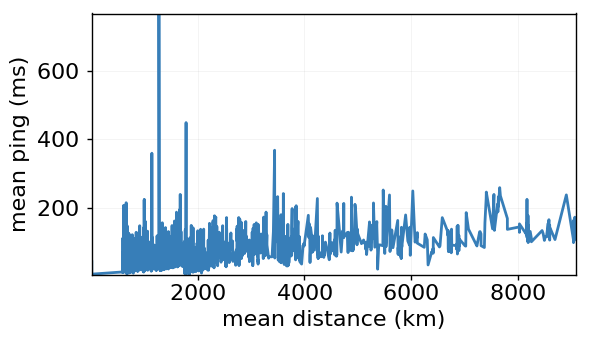
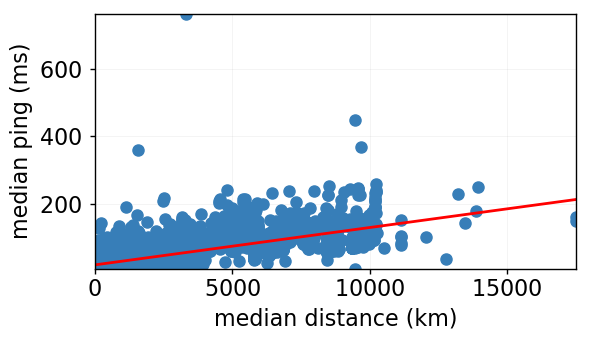
copying to IIJ machine

diff --git a/scripts/clusterAnalysis.py b/scripts/clusterAnalysis.py
@@ -1,4 +1,5 @@
 from skyclusters import SkyClusterBuilder
+from skycompare import NodeComparison
 from experimentdata import ExperimentData, DataGetter
 import scipy.cluster.hierarchy as  hierarchy
 import json
@@ -126,7 +127,18 @@ class ClusterAnalysis(ExperimentData):
                 uniques.append((addr, coverage, answers[site][addr]))
         return uniques
 
-    def merge_answers(self, cluster):
+    def compare_mergeables(self, cluster, mergeables):
+        listpings = self.scb.nodes.to_ping(cluster)
+        pings = defaultdict(lambda: defaultdict(list))
+        for i, client in enumerate(listpings):
+            res = self.scb.nodes[cluster[i]].results
+            for site in client:
+                pings[site][res[site]].append(client[site])
+        comps = dict()
+        for site in mergeables:
+            if site in pings:
+                comps[site] = list()
+    def merge_answers(self, cluster, mergeables):
         '''
         TODO: this should also make a new corresponding pkl
             TODO: if we make a new pkl, will need a simple way to know which pkl to use based on
@@ -183,6 +195,33 @@ class ClusterAnalysis(ExperimentData):
     def get_geo_mean(self, inner):
         mean = np.mean(list(inner.values()))
         return mean
+
+    def get_geo_center(self, inner):
+        mean = np.mean(list(inner.values()))
+        center = sorted(list(inner.keys()), key=lambda z: abs(inner[z]-mean))[0]
+        return self.scb.nodes[center]
+
+    def get_dists_from_geo_center(self, cluster):
+        dists = defaultdict(list)
+        nodes = list()
+        for z in cluster:
+            coords = self.scb.nodes[z].coords
+            if not coords or not coords[0]:
+                continue
+            else:
+                coords = coords[0][1], coords[0][0]
+            nodes.append((z,coords))
+        for (i,a),(j,b) in itertools.combinations(nodes, 2):
+            d = vincenty(a, b).km
+            dists[i].append(d)
+            dists[j].append(d)
+        for i in dists:
+            dists[i] = np.mean(dists[i])
+        mean = np.mean(list(dists.values()))
+        center = sorted(list(dists.keys()), key=lambda z: abs(dists[z]-mean))[0]
+        center_loc = self.scb.nodes[center].coords[0]
+        center_loc = [center_loc[1], center_loc[0]]
+        return (center, center_loc, {z[0]: vincenty(z[1], center_loc).km for z in nodes})
 
     def get_cnre_mean(self, inner):
         mean = np.mean(list(inner.values()))

diff --git a/scripts/section_cluster_analysis.py b/scripts/section_cluster_analysis.py
@@ -26,8 +26,7 @@ def get_geo_vs_perf(i):
     '''
     try:
         cluster = g_clusters[i]
-        geo = g_ca.get_inner_geo(cluster)
-        mean_geo = g_ca.get_geo_mean(geo)
+        geocenter, geocenterloc, geo = g_ca.get_dists_from_geo_center(cluster)
         perf = g_ca.get_inner_performance(cluster)
         mean_perf = g_ca.get_performance_mean(perf)
         out_data = list()
@@ -40,7 +39,8 @@ def get_geo_vs_perf(i):
     except:
         traceback.print_exception(*sys.exc_info())
         raise Exception()
-    return {'raw_data': out_data, 'mean_geo': mean_geo, 'mean_perf': mean_perf}
+    return {'raw_data': out_data, 'geo_center': geocenter, 'geo_center_loc': geocenterloc,
+            'mean_perf': mean_perf}
 
 
 def plot_geo_distribution(workers=2):
@@ -68,17 +68,21 @@ def plot_perf_vs_geo(workers=2):
     data = list()
     for res in pool.imap_unordered(get_geo_vs_perf, range(len(g_clusters))):
         data.append(res)
-    with open(g_ca.fmt_path('datadir/geo_vs_perf/raw.json'), 'w') as f:
-        json.dump(data,f)
     x = list()
     y = list()
+    with open(g_ca.fmt_path('datadir/geo_vs_perf/raw.json'), 'w') as f:
+        json.dump(data,f)
     for item in data:
         _, geo, perf = zip(*item['raw_data'])
         x += geo
         y += perf
     x, y = zip(*sorted(zip(x,y), key=lambda z: z[0]))
+    slope, offset = np.polyfit(x,y,1)
+    with open(g_ca.fmt_path('datadir/geo_vs_perf/plot.json'), 'w') as f:
+        json.dump({'x': x, 'y': y, 'slope': slope, 'offset': offset},f)
     fig, ax = plt.subplots(figsize=(6,3.5))
-    ax.plot(x,y)
+    ax.scatter(x,y)
+    ax.plot(x, [offset + slope*z for z in x])
     ax.set_xlabel('mean distance (km)')
     ax.set_ylabel('mean ping (ms)')
     fig.savefig(g_ca.fmt_path('plotsdir/geo_vs_perf/raw.png'))

diff --git a/scripts/skyclusters.py b/scripts/skyclusters.py
@@ -253,8 +253,9 @@ class SkyClusterBuilder(ExperimentData):
         stds = [50.0*float(z)/float(max(stds)) for z in stds]
         fig, (ax) = plt.subplots(1, 1, figsize=(6, 6))
         ax.scatter(mean_errs, answers, stds, alpha=0.3)
-        ax.set_xlabel('mean closeness error')
-        ax.set_ylabel('# distinct answers')
+        ax.set_xlabel('mean domain error')
+        ax.set_ylabel('# distinct answers from domain')
+        ax.set_yscale('log')
         fig.savefig(self.fmt_path('plotsdir/domain_error/'+self.timeid+'.png'))
         plt.close(fig)
         print(self.fmt_path('plotsdir/domain_error/'+self.timeid+'.png'))

diff --git a/scripts/finding_clusters_plots.py b/scripts/finding_clusters_plots.py
@@ -241,7 +241,7 @@ def plot_homogeneity_and_completeness(category):
     ax2.axhline(len(labelset), color='k')
     #vind, _ = min([(i,abs(n-len(labelset))) for i,n in enumerate(y3)], key=lambda z: z[1])
     #ax.axvline(x[vind], color='green')
-    ax.axvline(0.73, color='green')
+    ax.axvline(1.0-0.73, color='green')
     lines = l1+l2+l3
     ax2.set_yscale('log')
     ax.set_xlabel('distance threshold')
